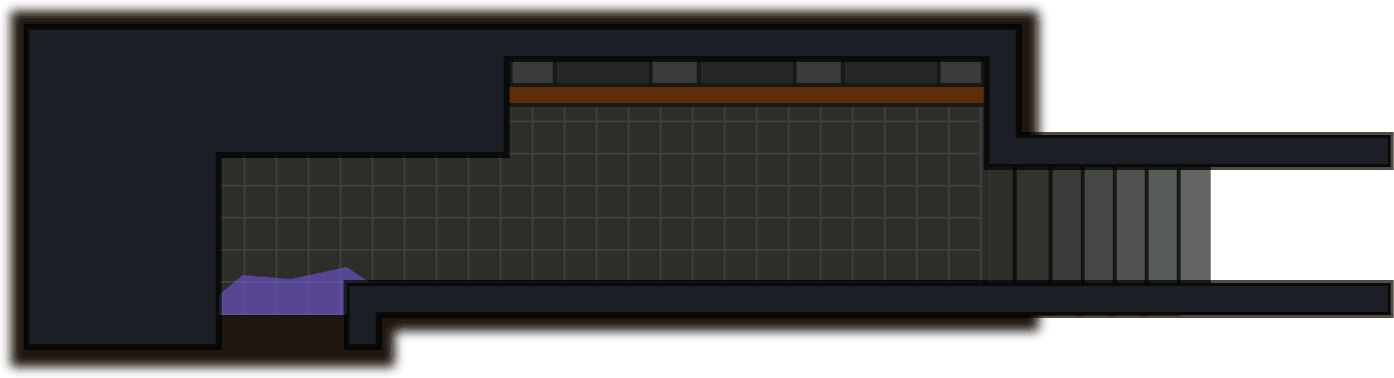
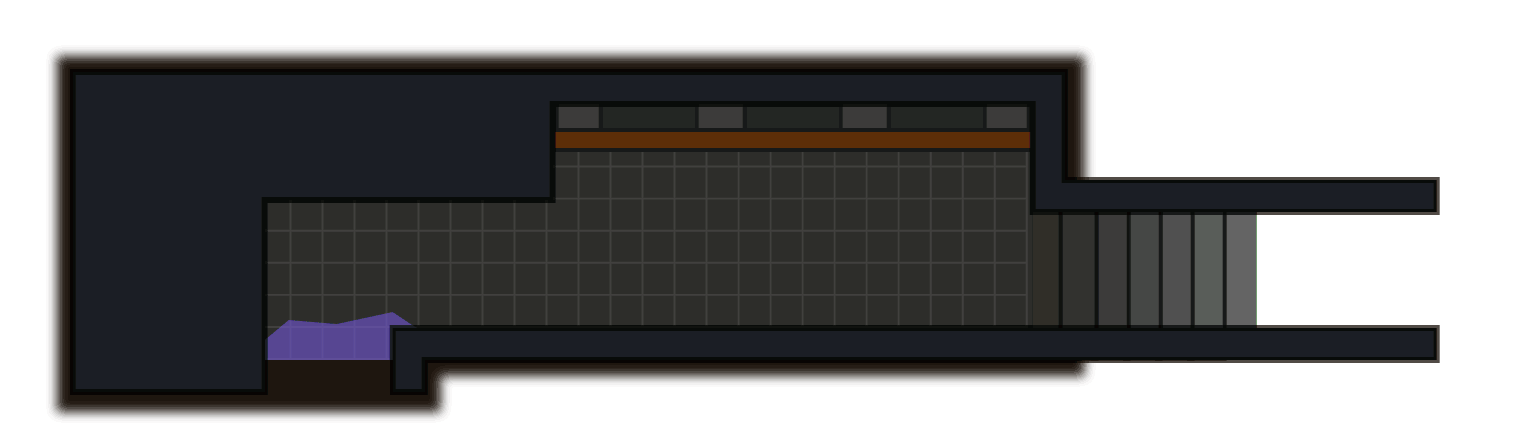
feat: add contact map for deathmatch and make skitternade actually usefull

Changed region(s): [[0.0, 0.0, 1.0, 0.9894], [0.802, 0.8148, 0.8637, 0.8439]]

diff --git a/server/src/deathmatch/maps/contact.ts b/server/src/deathmatch/maps/contact.ts
@@ -1,0 +1,56 @@
+import type { MapDef } from "../../../../shared/defs/mapDefs";
+import { util } from "../../../../shared/utils/util";
+import { Contact as BattleRoyaleContact } from "../../battleroyale/maps/maps/contactDefs";
+import { DeatchmatchMain } from "./main";
+
+const audio = Array.from(
+    new Map(
+        [...DeatchmatchMain.assets.audio, ...BattleRoyaleContact.assets.audio].map(
+            (asset) => [asset.name, asset],
+        ),
+    ).values(),
+);
+
+const atlases = Array.from(
+    new Set([...DeatchmatchMain.assets.atlases, ...BattleRoyaleContact.assets.atlases]),
+);
+
+export const DeathmatchContact = util.mergeDeep(structuredClone(DeatchmatchMain), {
+    mapId: BattleRoyaleContact.mapId,
+    desc: structuredClone(BattleRoyaleContact.desc),
+    assets: {
+        audio,
+        atlases,
+    },
+    biome: structuredClone(BattleRoyaleContact.biome),
+    mapGen: {
+        randomSpawns: [
+            {
+                spawns: ["logging_complex_01ct", "desert_town_02ct"],
+                choose: 1,
+            },
+            ...structuredClone(DeatchmatchMain.mapGen.randomSpawns.slice(1)),
+        ],
+        densitySpawns: [
+            {
+                ...DeatchmatchMain.mapGen.densitySpawns[0],
+                crate_egg: 30,
+            },
+        ],
+        fixedSpawns: [
+            {
+                ...DeatchmatchMain.mapGen.fixedSpawns[0],
+                crop_circle_01: 1,
+                crop_circle_02: 1,
+                crop_circle_03: 1,
+            },
+        ],
+        spawnReplacements: structuredClone(BattleRoyaleContact.mapGen.spawnReplacements),
+    },
+    gameMode: structuredClone(BattleRoyaleContact.gameMode),
+}) as MapDef;
+
+DeathmatchContact.lootTable = {
+    ...structuredClone(DeatchmatchMain.lootTable),
+    tier_contact: structuredClone(BattleRoyaleContact.lootTable.tier_contact),
+};

diff --git a/shared/defs/mapObjectDefs.ts b/shared/defs/mapObjectDefs.ts
@@ -19605,6 +19605,10 @@ export const MapObjectDefs: Record<string, MapObjectDef> = {
         groundTintLt: 0x3e4954,
         groundTintDk: 0x2e363f,
     }),
+    logging_complex_01ct: createLoggingComplex({
+        groundTintLt: 0x35416b,
+        groundTintDk: 0x293354,
+    }),
     logging_complex_02su: createLoggingComplex2({ groundTintDk: 0x4e7d13 }),
     logging_complex_02x: createLoggingComplex2({ groundTintDk: 0x9e9e9e }),
     logging_complex_03: createLoggingComplex3({}),
@@ -19698,6 +19702,28 @@ export const MapObjectDefs: Record<string, MapObjectDef> = {
             {
                 bound: collider.createAabbExtents(v2.create(0, 2), v2.create(5, 50.5)),
                 color: 0x2e363f,
+                roughness: 0.1,
+                offsetDist: 1,
+            },
+        ],
+    }),
+    desert_town_02ct: createDesertTown2({
+        mapGroundPatches: [
+            {
+                bound: collider.createAabbExtents(v2.create(0, -3), v2.create(45, 55)),
+                color: 0x35416b,
+                roughness: 0.1,
+                offsetDist: 1,
+            },
+            {
+                bound: collider.createAabbExtents(v2.create(0, 0), v2.create(46, 10)),
+                color: 0x293354,
+                roughness: 0.1,
+                offsetDist: 1,
+            },
+            {
+                bound: collider.createAabbExtents(v2.create(0, 2), v2.create(5, 50.5)),
+                color: 0x293354,
                 roughness: 0.1,
                 offsetDist: 1,
             },

diff --git a/server/src/game/objects/player.ts b/server/src/game/objects/player.ts
@@ -1631,7 +1631,6 @@ export class Player extends BaseGameObject {
     biteEffectTicker = 0;
     poisonSource?: GameObject;
     poisonSourceTeamId?: number;
-    contactSmokeEmitterIds = new Set<number>();
     contactSmokeTicker = 0;
     nitroLaceEffect = false;
     nitroLaceDuration = 0;
@@ -4116,9 +4115,8 @@ export class Player extends BaseGameObject {
         }
 
         if (contactSmoke) {
-            if (!this.contactSmokeEmitterIds.has(contactSmoke.emitterId)) {
-                this.contactSmokeEmitterIds.add(contactSmoke.emitterId);
-                this.applyContactedEffect(false);
+            if (this.infectedEffect) {
+                this.clearContactedEffect();
             }
 
             this.contactSmokeTicker -= dt;
@@ -5178,7 +5176,6 @@ export class Player extends BaseGameObject {
         this.poisonDuration = 0;
         this.poisonSource = undefined;
         this.poisonSourceTeamId = undefined;
-        this.contactSmokeEmitterIds.clear();
         this.contactSmokeTicker = 0;
         this.boostDirty = true;
         this.inventoryDirty = true;

diff --git a/shared/defs/mapDefs.ts b/shared/defs/mapDefs.ts
@@ -20,6 +20,7 @@ import { WoodsSummer as BattleRoyaleWoodsSummer } from "../../server/src/battler
 import { DeathmatchAmongUs } from "../../server/src/deathmatch/gameModes/amongUs/map";
 import { DeathmatchAprilFools } from "../../server/src/deathmatch/maps/aprilFools";
 import { DeatchmatchCobalt } from "../../server/src/deathmatch/maps/cobalt";
+import { DeathmatchContact } from "../../server/src/deathmatch/maps/contact";
 import { DeatchmatchDesert } from "../../server/src/deathmatch/maps/desert";
 import { FactionPotato } from "../../server/src/deathmatch/maps/faction_potato";
 import { gun_game } from "../../server/src/deathmatch/maps/gun_game";
@@ -101,6 +102,7 @@ export const MapDefs = {
     br_savannah: BattleRoyaleSavannah,
     cobalt: DeatchmatchCobalt,
     br_cobalt: BattleRoyaleCobalt,
+    contact: DeathmatchContact,
     turkey: Turkey,
     br_turkey: BattleRoyaleTurkey,
     birthday: Birthday,

diff --git a/client/src/ui/ui2.ts b/client/src/ui/ui2.ts
@@ -1762,12 +1762,15 @@ export class UiManager2 {
                 return `${targetName} ${killTxt}`;
             }
             case DamageType.Gas: {
-                if (sourceType == "poison_gas" && killerName) {
+                if (
+                    (sourceType == "poison_gas" || sourceType == "skitternade") &&
+                    killerName
+                ) {
                     return `${killerName} ${this.localization.translate(
                         downed ? "game-knocked-out" : "game-killed",
                     )} ${targetName} ${this.localization.translate(
                         "game-with",
-                    )} ${this.localization.translate("game-poison_gas")}`;
+                    )} ${this.localization.translate(`game-${sourceType}`)}`;
                 }
                 let killName;
                 let killTxt;

diff --git a/shared/defs/gameObjects/throwableDefs.ts b/shared/defs/gameObjects/throwableDefs.ts
@@ -400,7 +400,7 @@ export const ThrowableDefs: Record<string, ThrowableDef> = {
                 right: {
                     sprite: "proj-skitternade.img",
                     pos: { x: 3, y: 4.2 },
-                    scale: 0.12,
+                    scale: 0.16,
                 },
                 left: { sprite: "none" },
             },
@@ -408,7 +408,7 @@ export const ThrowableDefs: Record<string, ThrowableDef> = {
                 right: {
                     sprite: "proj-skitternade.img",
                     pos: { x: 3, y: 4.2 },
-                    scale: 0.12,
+                    scale: 0.16,
                 },
                 left: { sprite: "none" },
             },

diff --git a/server/src/game/objects/smoke.ts b/server/src/game/objects/smoke.ts
@@ -250,9 +250,13 @@ export class Smoke extends BaseGameObject {
         }
 
         if (!v2.eq(posOld, this.pos) || !math.eqAbs(radOld, this.rad)) {
+            this.game.map.clampToMapBounds(this.pos, this.rad);
+            this.bounds = collider.createAabbExtents(
+                v2.create(0, 0),
+                v2.create(this.rad, this.rad),
+            );
             this.setPartDirty();
             this.game.grid.updateObject(this);
-            this.game.map.clampToMapBounds(this.pos, this.rad);
         }
 
         if (this.life <= 0) {

diff --git a/server/src/config.ts b/server/src/config.ts
@@ -12,7 +12,10 @@ const BACKPACK_LEVEL = 3;
 
 util.mergeDeep(Config, {
     clientTheme: "perks",
-    modes: [{ mapName: "perks", teamMode: TeamMode.Duo, enabled: true }],
+    modes: [
+        { mapName: "contact", teamMode: TeamMode.Duo, enabled: true },
+        { mapName: "br_contact", teamMode: TeamMode.Duo, enabled: true },
+    ],
     br_modes: [{ mapName: "br_contact", teamMode: TeamMode.Duo, enabled: true }],
     debug: {
         spawnMode: process.env.NODE_ENV === "production" ? "default" : "fixed",

diff --git a/client/src/main.ts b/client/src/main.ts
@@ -224,6 +224,7 @@ export class Application {
         br_birthday: "Birthday",
         br_beach: "Beach",
         br_contact: "Contact",
+        contact: "Contact",
         woods: "Woods",
         potato: "Potato",
         desert: "Desert",
@@ -1532,6 +1533,7 @@ export class Application {
             "valentine",
             "inferno",
             "woods",
+            "contact",
             "capture_the_flag",
         ]);
         const gameModeStyles = this.siteInfo.getGameModeStyles();

diff --git a/shared/gameConfig.ts b/shared/gameConfig.ts
@@ -133,7 +133,7 @@ export const GameConfig = {
     // the protocol we originated from was 78
     // remember to bump this every time a serialization function is changed
     // or a definition item added, removed or moved
-    protocolVersion: 1030,
+    protocolVersion: 1031,
     Input,
     EmoteSlot,
     WeaponSlot,
